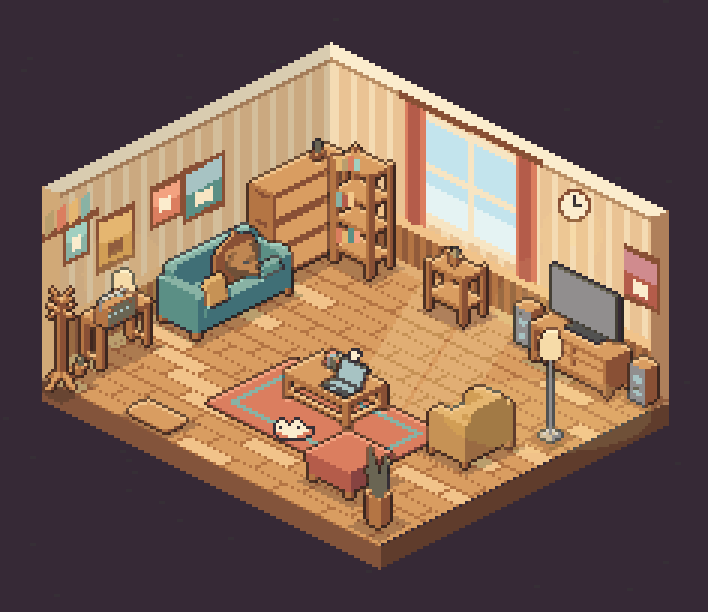
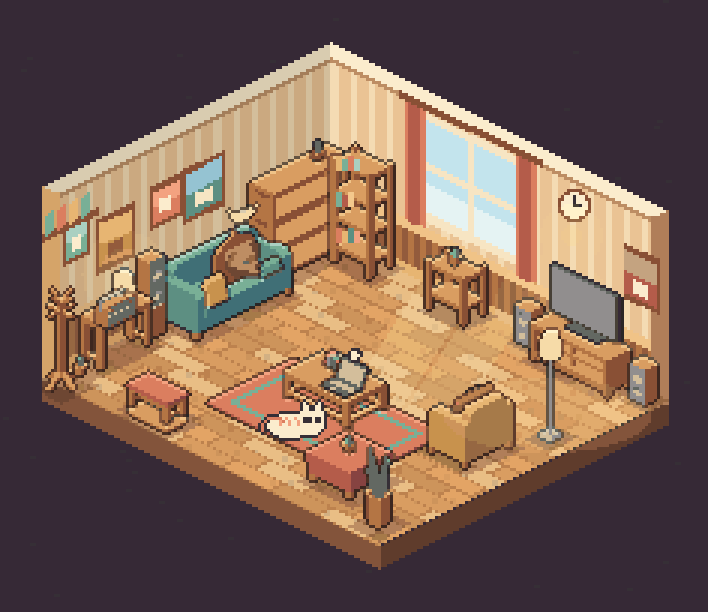
AI-4: A0 pass 2 (32 props, plank floor, readable cat)

diff --git a/tools/render3d/room_a0.py b/tools/render3d/room_a0.py
@@ -33,6 +33,11 @@ K.PROPS = [
  ("pottedPlant",6.5,5.5,0,0,{},None),
  ("coatRackStanding",0.3,5.9,0,0,{},None),
  ("plantSmall3",0.25,0.5,0,"TOP:bookcaseClosedWide",{},None),
+ ("lampWall",0,1.9,1,0.55,{},"L"),
+ ("pillowLong",5.95,3.0,3,0.28,{"carpet":"TERRA"},None),
+ ("plantSmall1",5.3,4.9,0,"TOP:loungeSofaOttoman",{},None),
+ ("benchCushionLow",1.9,5.5,0,0,{"carpet":"TERRA","carpetDarker":"TERRA"},None),
+ ("speaker",0.3,3.9,1,0,{},"L"),
  ("rugDoormat",2.0,5.6,0,0,{"carpet":"TEAL","carpetDarker":"TEAL"},None),
 ]
 
@@ -46,15 +51,19 @@ def spr(rows):
             c=PAL.get(ch)
             if c: im.putpixel((x,y),hx(c)+(255,))
     return im
-CAT=spr([
-"..kk...kk......",
-".kwwk.kwwk.....",
-"kwwwwkwwwwk....",
-"kwkwwwwwkwwkkk.",
-"kwwwwwwwwwwwOk.",
-"kOOwwwwwwwOOOk.",
-".kOOOwwwOOOkk..",
-"..kkkkkkkkk...."])
+def make_cat():
+    w,h=22,12; im=Image.new('RGBA',(w,h),(0,0,0,0)); d=ImageDraw.Draw(im)
+    o,w_,s_=hx('#f2a07f'),hx('#fff6e2'),hx('#d97a5c')
+    d.ellipse([2,4,16,11],fill=w_); d.ellipse([13,3,20,10],fill=w_)
+    d.polygon([(13,4),(14,0),(16,3)],fill=w_); d.polygon([(17,3),(19,0),(20,4)],fill=w_)
+    for x in (5,8,11): d.line([x,5,x+1,7],fill=o)
+    d.arc([0,5,8,11],150,330,fill=s_); d.ellipse([14,5,16,6],fill=hx('#3a2530'));d.ellipse([18,5,19,6],fill=hx('#3a2530'))
+    # outline
+    a=np.array(im); al=a[...,3]>0; out=Image.new('RGBA',(w+2,h+2),(0,0,0,0)); out.alpha_composite(im,(1,1))
+    A=np.array(out); m=A[...,3]>0; edge=np.zeros_like(m)
+    for dy,dx in ((1,0),(-1,0),(0,1),(0,-1)): edge|=np.roll(m,(dy,dx),(0,1))
+    A[edge&~m]=list(hx('#3a2530'))+[255]; return Image.fromarray(A,'RGBA')
+CAT=make_cat()
 MUG=spr([".kkk.","kwwkk","kwwwk","kwwk.",".kk.."]).copy()
 def book_row(img,x,y,cols,h=5):
     x,y=int(round(x)),int(round(y))

diff --git a/tools/render3d/kenney_room_proof.py b/tools/render3d/kenney_room_proof.py
@@ -262,10 +262,13 @@ def draw_shell(img):
     plank = np.floor(gy * 3).astype(int)
     seg = np.floor(gx + (plank * 0.37) % 1.0).astype(int)
     hsh = ((plank * 73856093) ^ (seg * 19349663)) & 0xFF
-    tone = np.where(hsh % 5 == 0, 0, 1)
-    base = RAMP_ARR[RAMP_IDS["WOOD"]][tone]
+    r1=RAMP_ARR[RAMP_IDS["WOOD"]][1].astype(np.float32); r0=RAMP_ARR[RAMP_IDS["WOOD"]][0].astype(np.float32); r2=RAMP_ARR[RAMP_IDS["WOOD"]][2].astype(np.float32)
+    v=(hsh % 4)[..., None]
+    base=np.where(v==0,r1,np.where(v==1,r1*1.05,np.where(v==2,r1*0.94,r0*0.97)))
+    grain=((((xs//2)*7+(ys//2)*13+plank*5)&15)==0)[..., None]
+    base=np.where(grain,base*0.93,base)
     seam = (np.abs(gy * 3 - np.round(gy * 3)) < 0.05) | (np.abs((gx + (plank * 0.37) % 1.0) - np.round(gx + (plank * 0.37) % 1.0)) < 0.03)
-    col = np.where(seam[..., None], RAMP_ARR[RAMP_IDS["WOOD"]][2][None, None, :].astype(np.uint8), base)
+    col = np.where(seam[..., None], (r1+r2)/2*0.95, base).clip(0,255).astype(np.uint8)
     fl[..., :3] = col; fl[inside, 3] = 255
     img.alpha_composite(Image.fromarray(fl, "RGBA"))
     d = ImageDraw.Draw(img)

diff --git a/docs/status/AI-4.md b/docs/status/AI-4.md
@@ -1,6 +1,6 @@
 # AI-4 status (Phase 5)
 ## Done
-- Gate A0 candidate: docs/shots/art-proof.png (27 Kenney props + hand-built cat, mug, book spines, clock, shelf, 5 frames, window light, 3 lamp glows, 64 colours).
+- Gate A0 candidate: docs/shots/art-proof.png (32 Kenney props + hand-built cat, mug, book spines, clock, shelf, 5 frames, window light, 3 lamp glows, 64 colours).
 - tools/render3d: seed pipeline (kenney_room_proof.py), room_a0.py (composer), orient_sheet.py, fronts.json.
 ## Verified
 - orient_sheet.py on 36 models: rot 0 = front faces +gy for all listed in fronts.json.
@@ -9,7 +9,7 @@
 - check-frames does not yet check fronts.json; palette not reconciled with docs/art/palette.json (quantized to 64).
 - How it looks: owner/manager judge.
 ## Weaknesses (honest)
-- 27 props (low end), near-plain floor, tiny cat/mug/books, no small-prop shadows, no night variant.
+- 32 props, floor is plank-textured but still plain-ish, mug/books tiny, no small-prop shadows, no night variant.
 ## Requests
 - none
 ## Next
